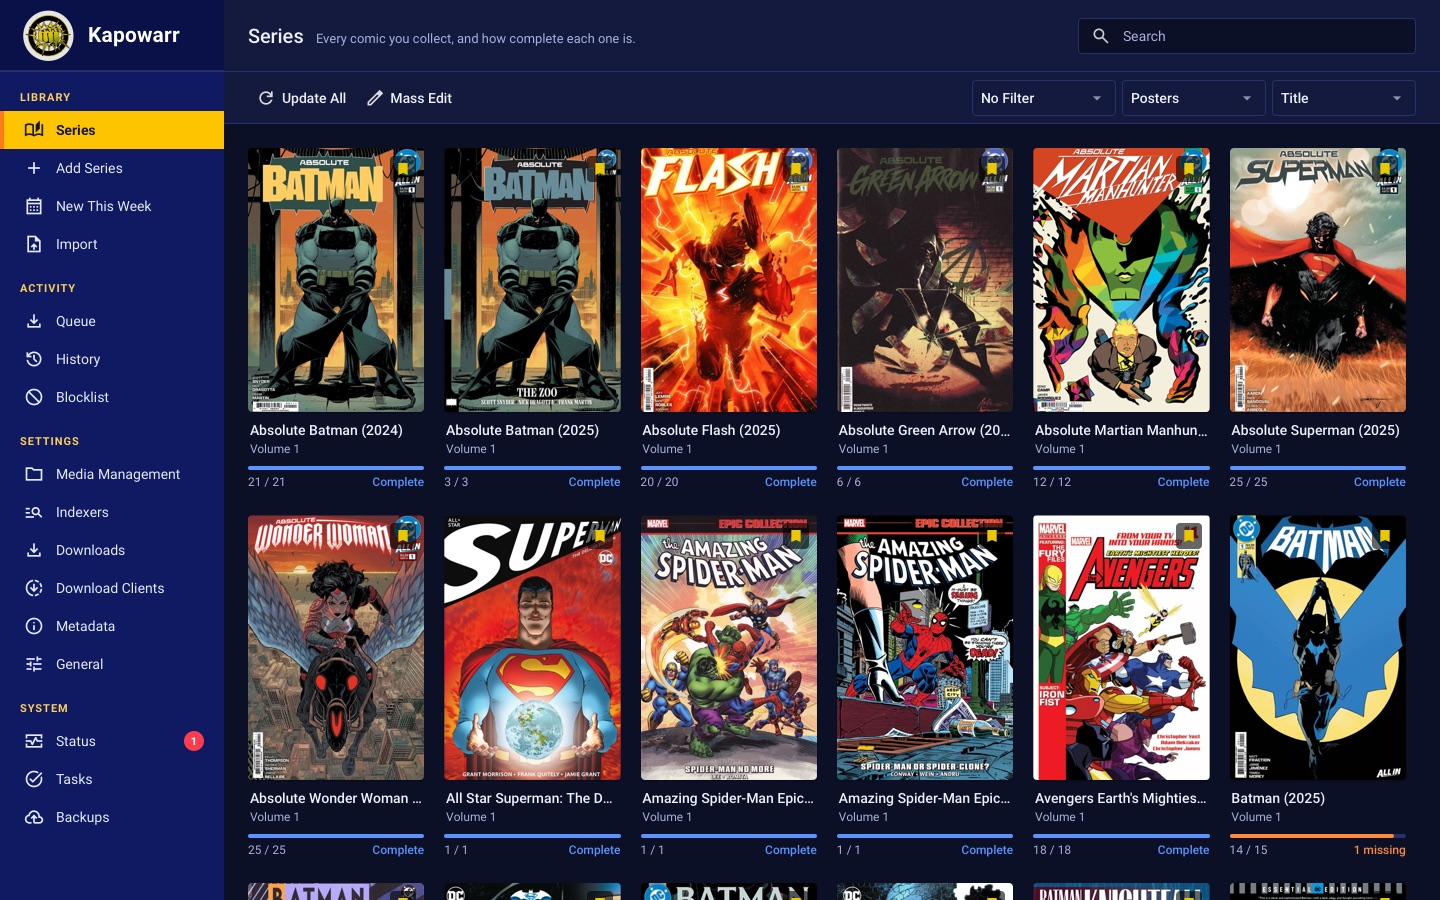
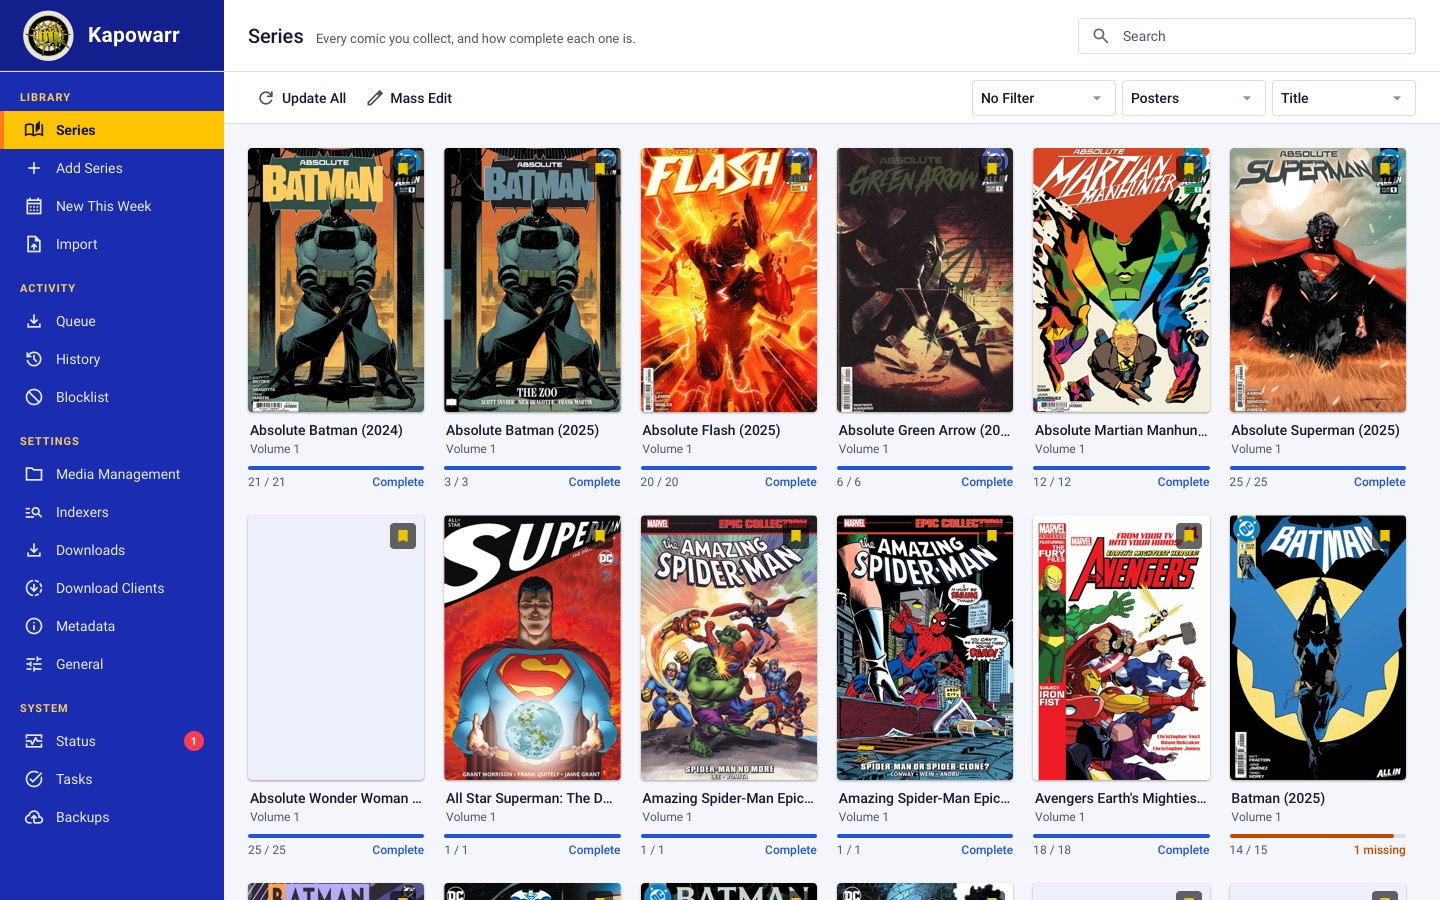
Docs: light shelf screenshot, light is the default

diff --git a/CHANGELOG.md b/CHANGELOG.md
@@ -3,7 +3,7 @@
 ## Kapowarr: a better calendar, a steadier look
 
 1. **New This Week** is now a real calendar with **Day, Week, Month and Year** views, a **Coming up** list that shows the next issue of every series ("in 4 weeks"), and states in words (Downloaded, Wanted, Not out yet, Not monitored). It works from the dates your library already knows, and only asks ComicVine for new series when you press a button.
-2. A bold, bright look: a royal-blue menu with the large logo and the name, yellow for where you are and what to press, and blue, orange and red for "have it", "partly there" and "missing". Dark mode is deep navy, not grey. Every state also has a word.
+2. A bold, bright look: a royal-blue menu with the large logo and the name, yellow for where you are and what to press, and blue, orange and red for "have it", "partly there" and "missing". Light is the default; dark mode is deep navy, not grey. Every state also has a word.
 3. Checked in Safari as well as Chrome.
 
 ## Manga: one folder
